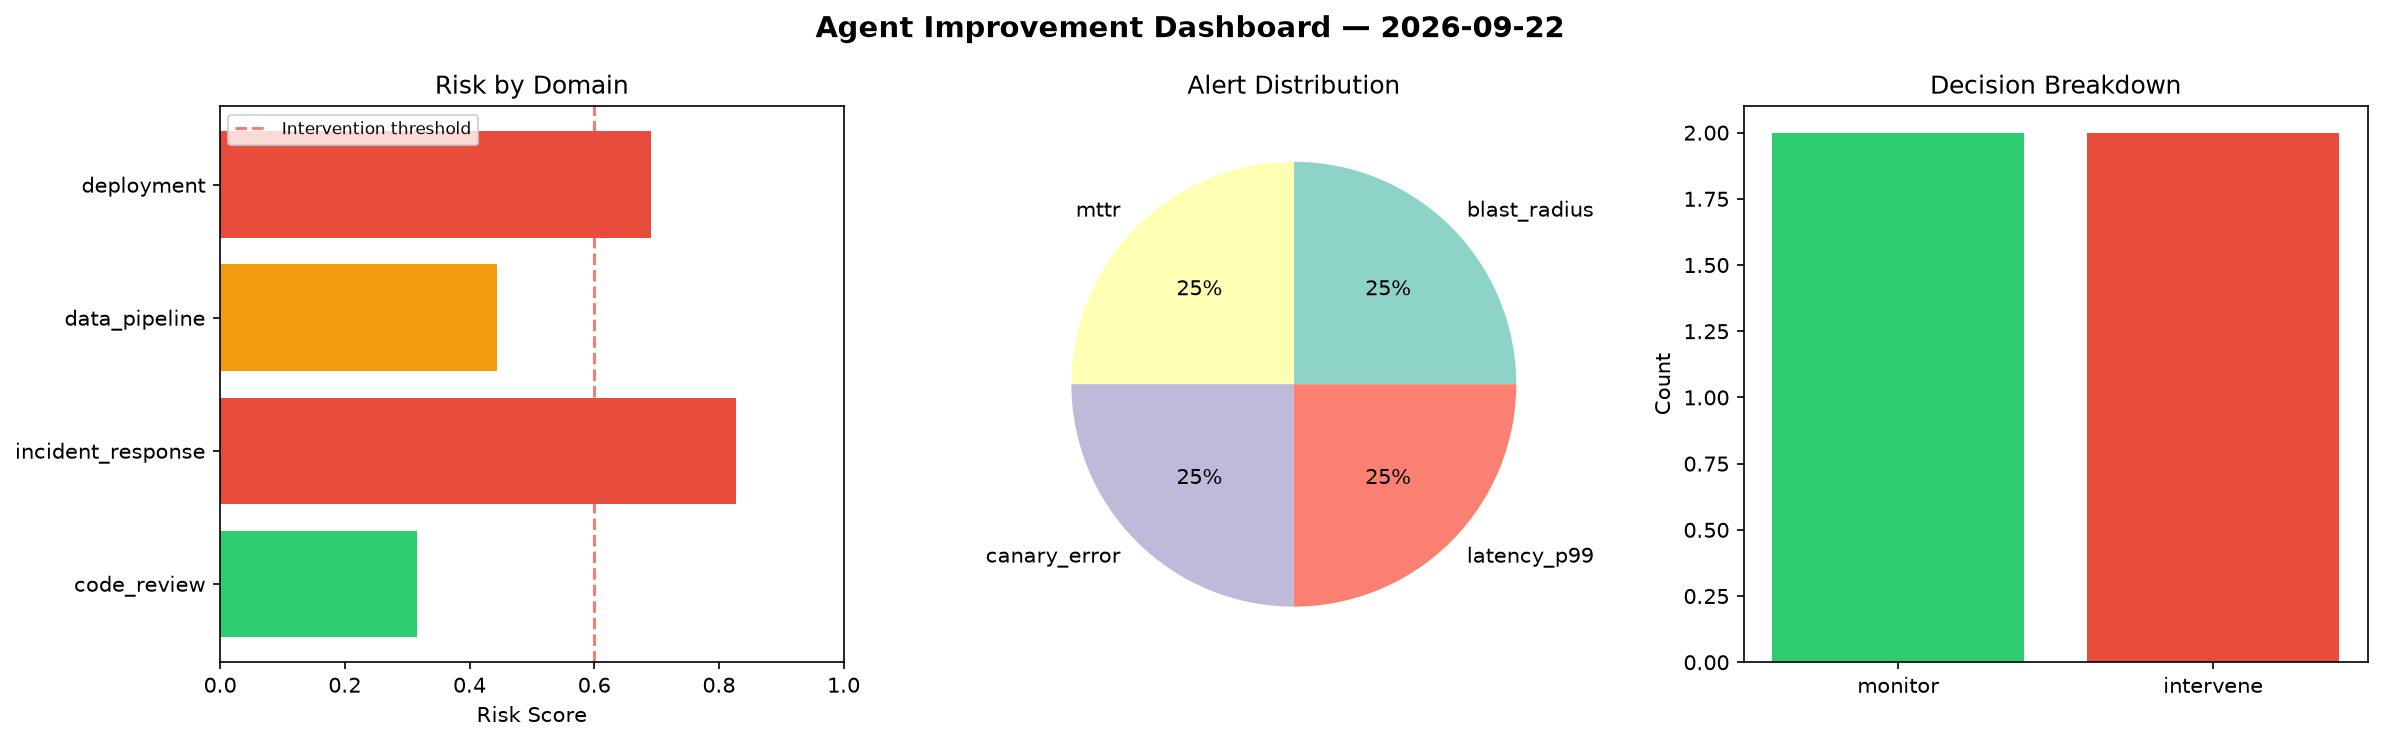
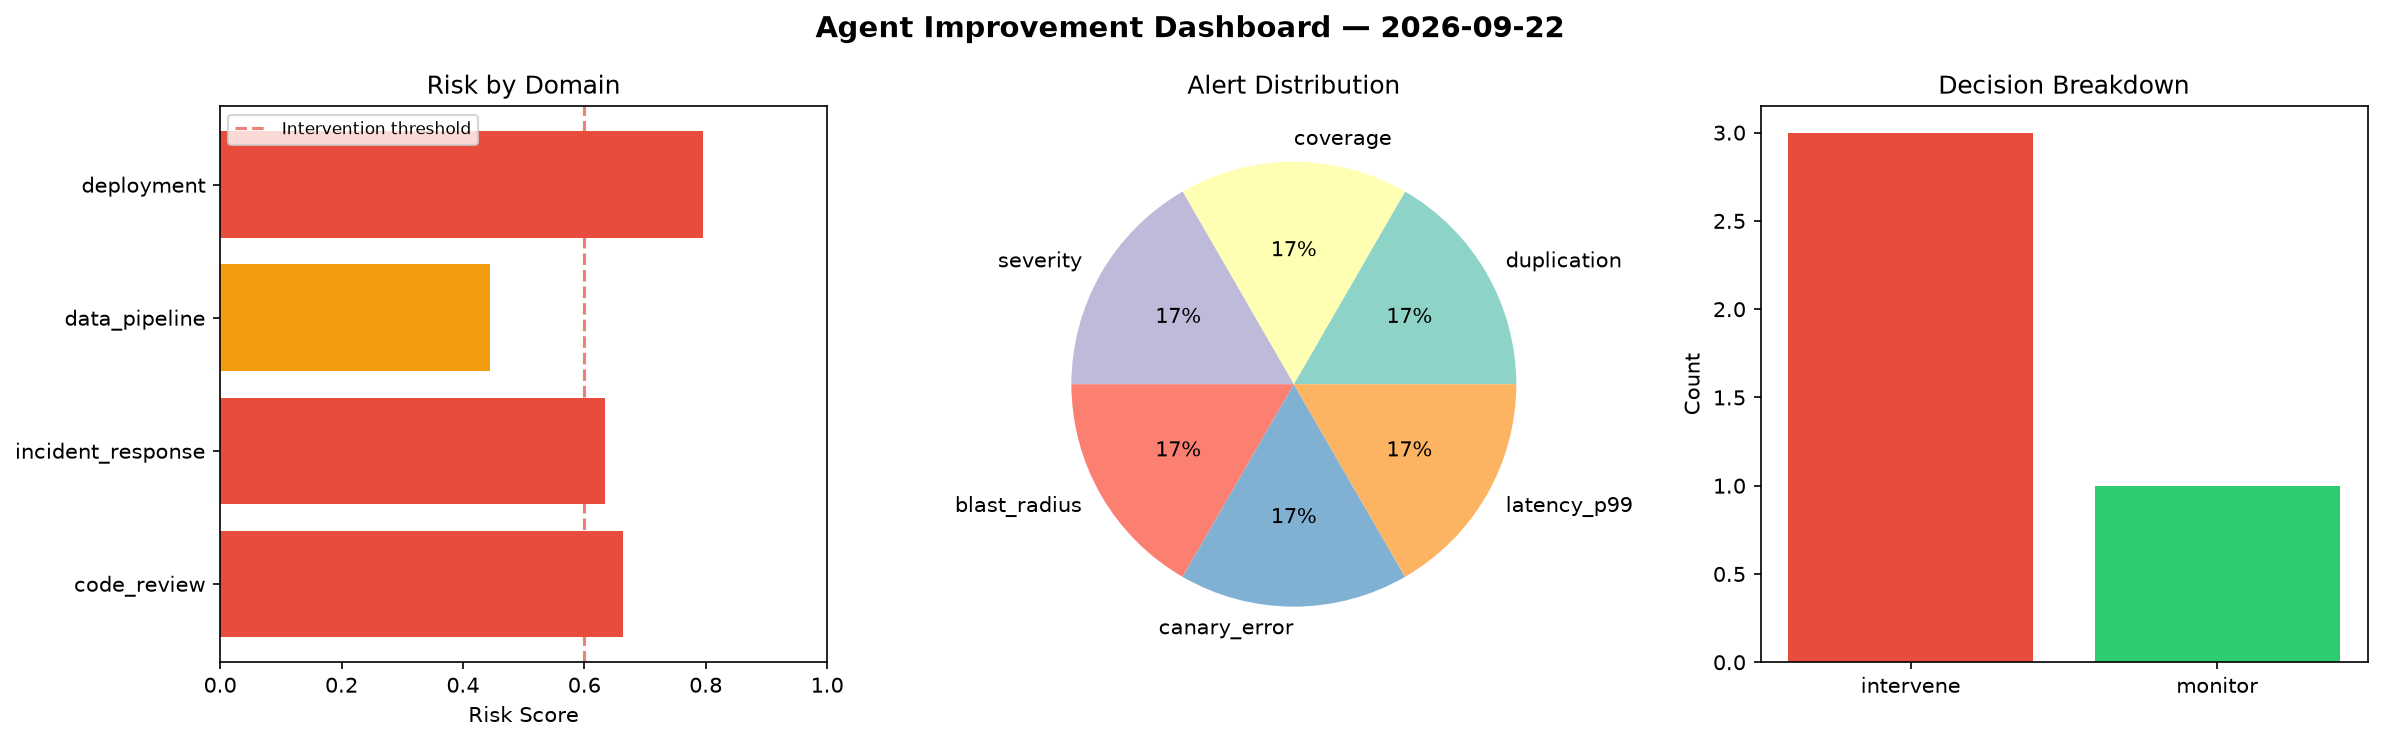
agent-improvement: daily cycle 2026-09-22T13:24

diff --git a/logs/2026-09-22.md b/logs/2026-09-22.md
@@ -1,6 +1,6 @@
 # Agent Improvement Report — 2026-09-22
 
-**Cycle ID:** `cdca72f8` | **Avg Risk:** 0.5701 | **Interventions:** 2/4
+**Cycle ID:** `e9b5126c` | **Avg Risk:** 0.6341 | **Interventions:** 3/4
 
 ![Dashboard](2026-09-22_dashboard.png)
 
@@ -10,18 +10,18 @@
 
 | Domain | Risk Score | Decision | Alerts |
 |--------|-----------|----------|--------|
-| code_review | 0.3165 | monitor | none |
-| incident_response | 0.8276 | intervene | blast_radius, mttr |
-| data_pipeline | 0.4446 | monitor | none |
-| deployment | 0.6918 | intervene | canary_error, latency_p99 |
+| code_review | 0.6633 | intervene | duplication, coverage |
+| incident_response | 0.6336 | intervene | severity, blast_radius |
+| data_pipeline | 0.445 | monitor | none |
+| deployment | 0.7947 | intervene | canary_error, latency_p99 |
 
 ## Delta vs Yesterday
 
 | Domain | Today | Yesterday | Change |
 |--------|-------|-----------|--------|
-| code_review | 0.3165 | 0.3063 | 📈 3.3% |
-| incident_response | 0.8276 | 0.4317 | 📈 91.7% |
-| data_pipeline | 0.4446 | 0.7138 | 📉 -37.7% |
-| deployment | 0.6918 | 0.4798 | 📈 44.2% |
+| code_review | 0.6633 | 0.3063 | 📈 116.6% |
+| incident_response | 0.6336 | 0.4317 | 📈 46.8% |
+| data_pipeline | 0.445 | 0.7138 | 📉 -37.7% |
+| deployment | 0.7947 | 0.4798 | 📈 65.6% |
 
 **Refinement:** `{'adjustment': 'tighten_thresholds', 'trend': 'degrading', 'window': 4}`
